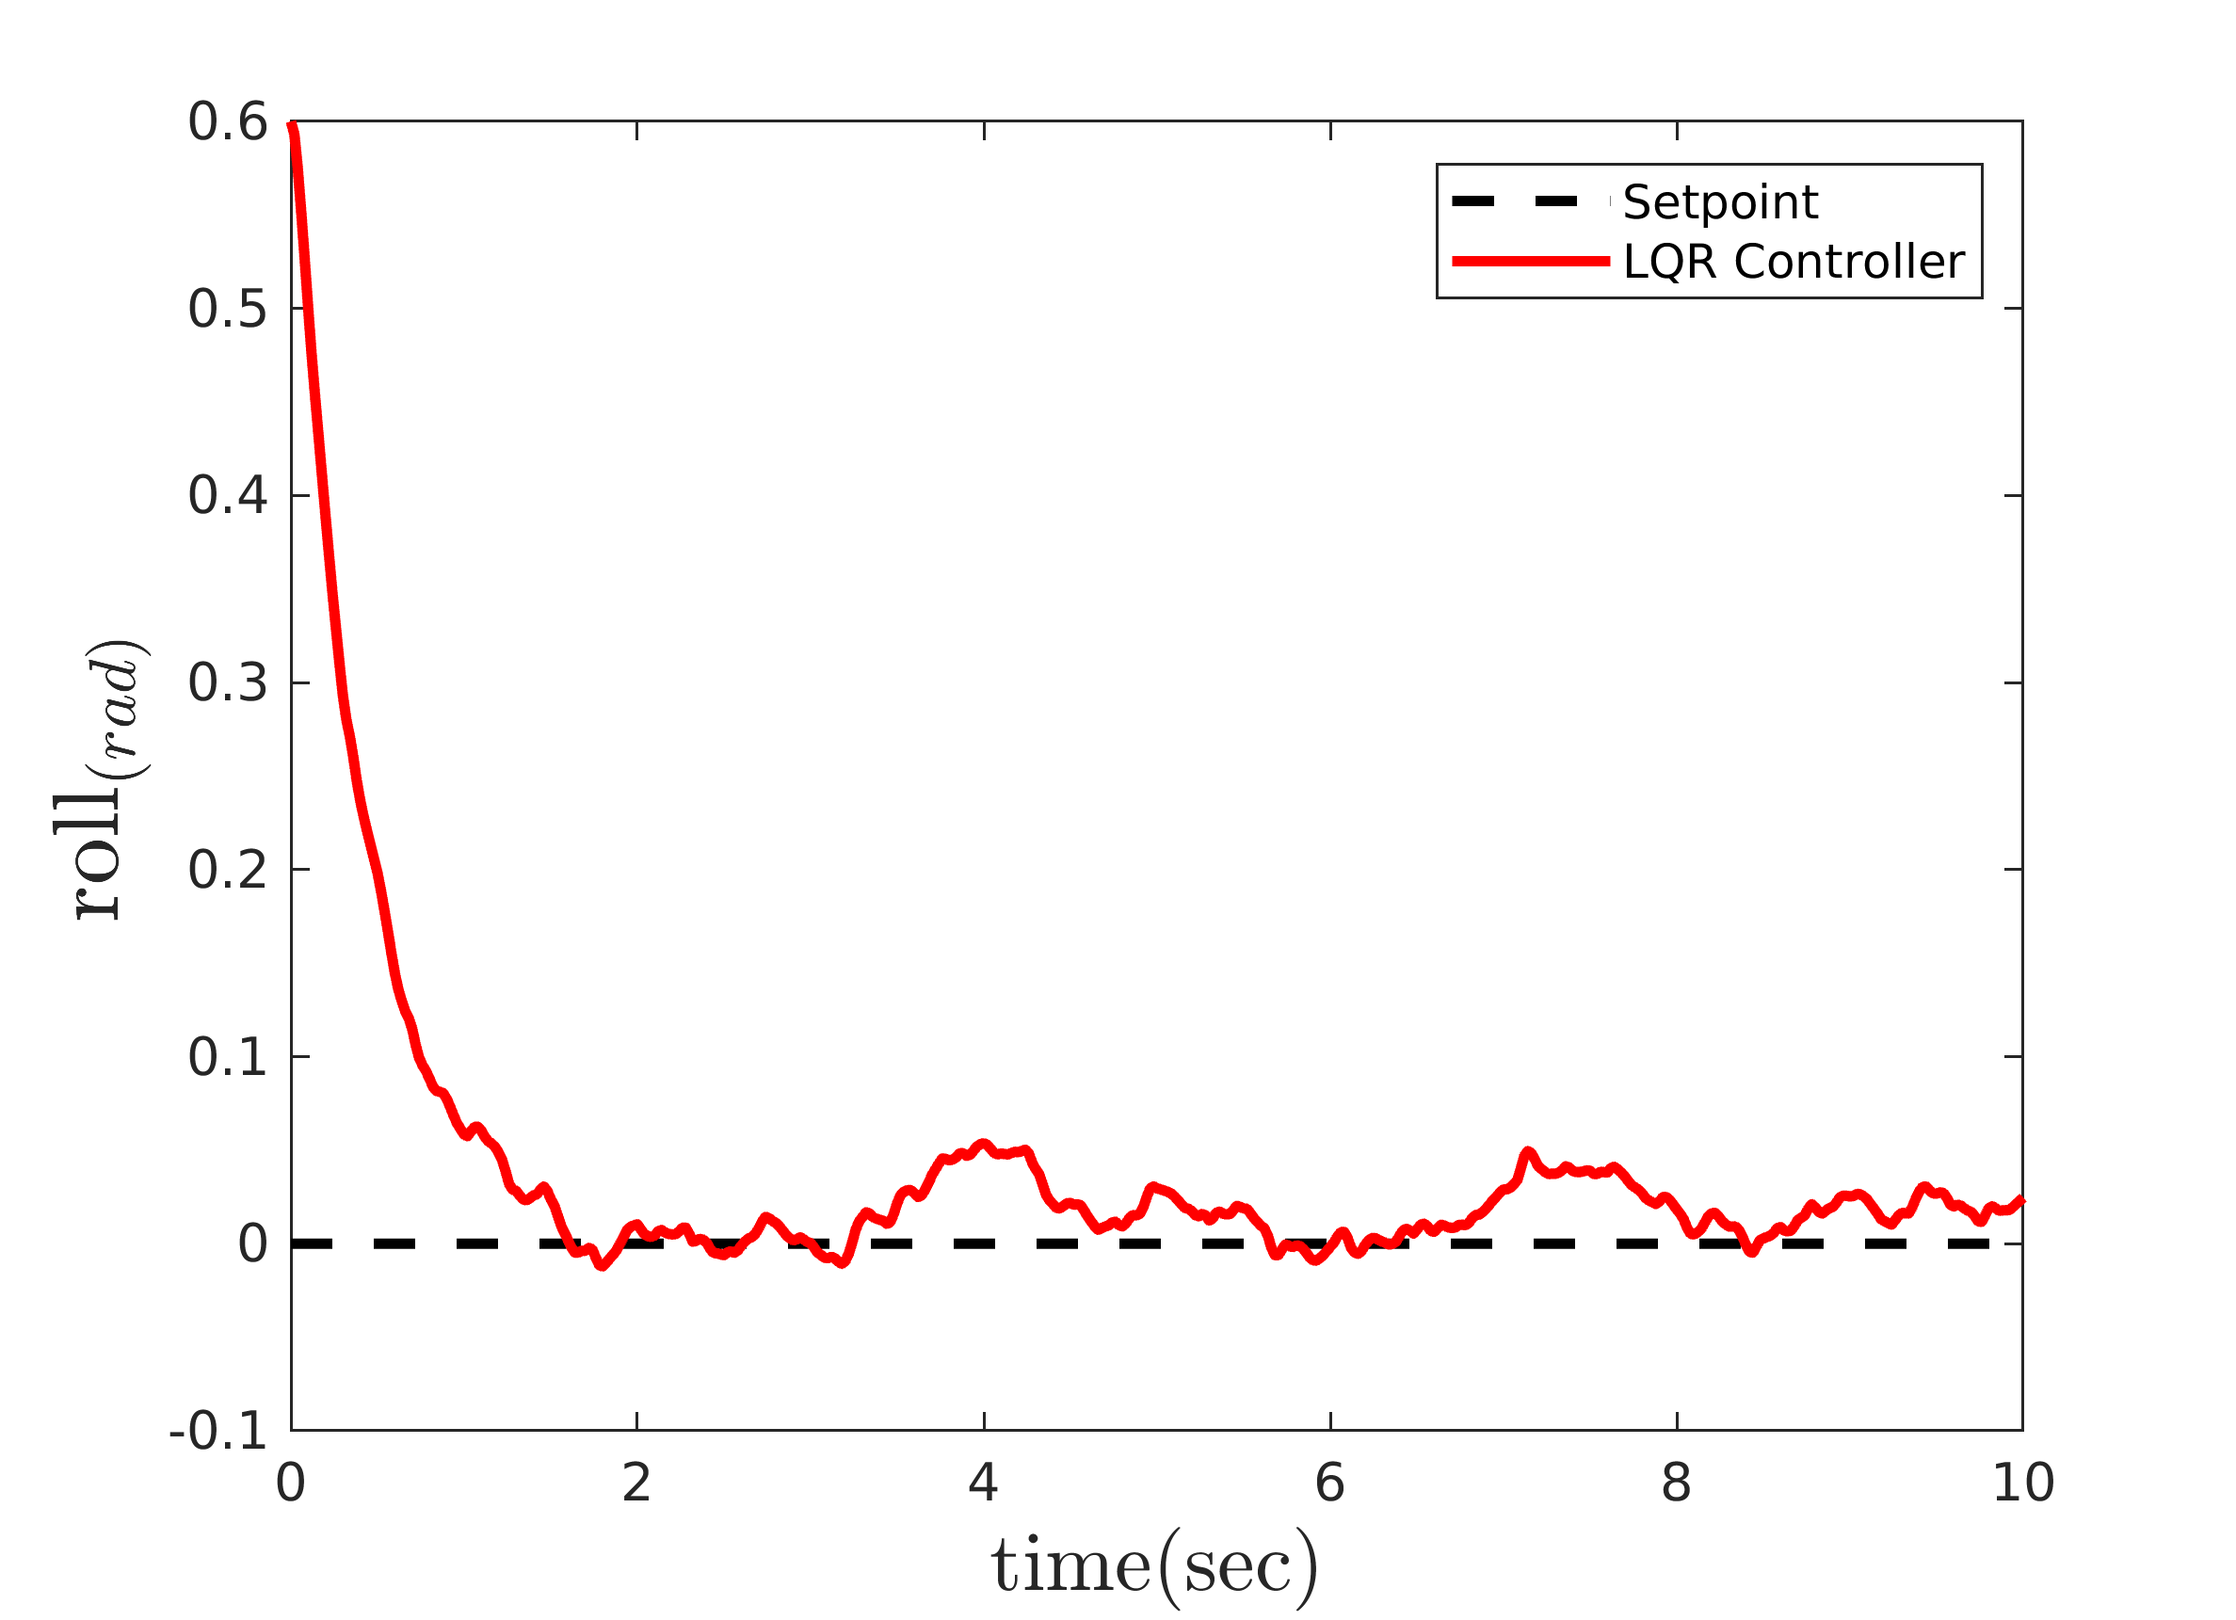
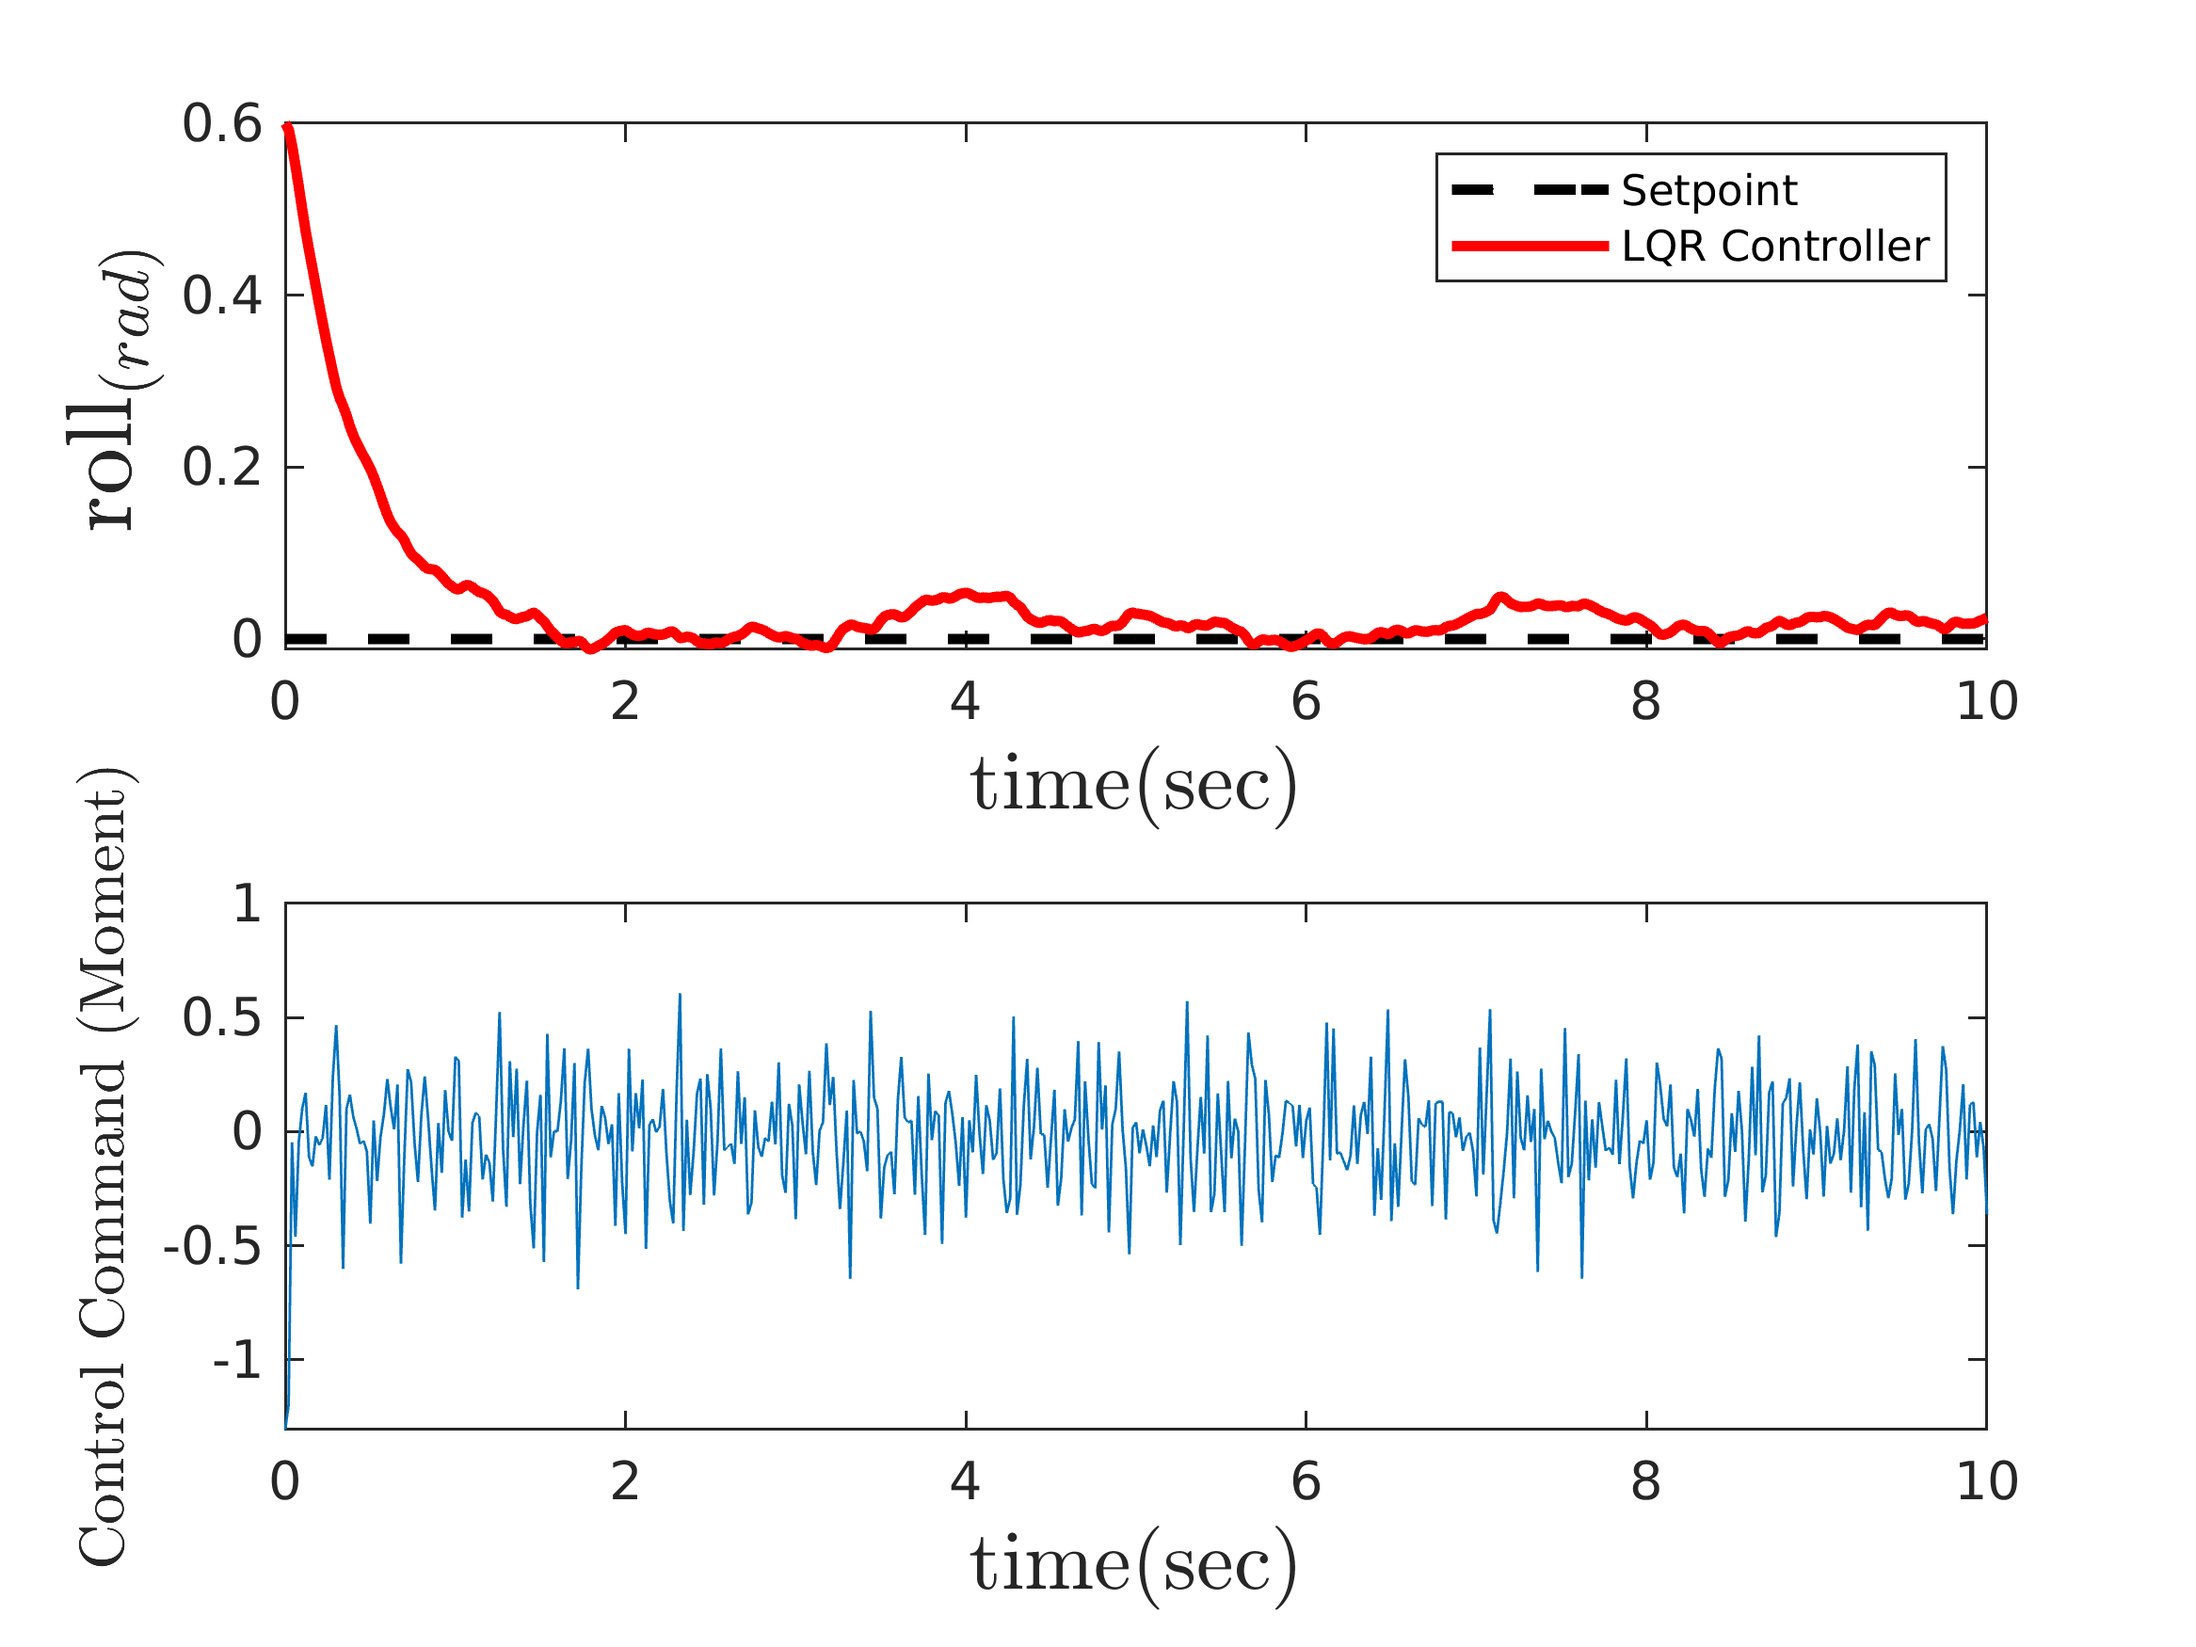
add command to fig

diff --git a/Code/Simulink/Quadcopter/MIL/Nonlinear/SISO/LQR/Roll/roll_plot.m b/Code/Simulink/Quadcopter/MIL/Nonlinear/SISO/LQR/Roll/roll_plot.m
@@ -2,7 +2,7 @@ load('11-Jun-2022-12-04-56-noise_ite_Roll_LQR_no1000.mat');
 weighting_matrix = XOpt;
 out = sim('Quad_Nonlinear_Roll_LQR_Model');
 
-% subplot(2,1,1);
+subplot(2,1,1);
 plot(out.tout, zeros(1, length(out.tout)), '--k', 'linewidth', 2);
 hold on;
 plot(out.tout, out.roll_state(:, 1), 'r', 'linewidth', 2);
@@ -10,13 +10,10 @@ hold off;
 xlabel('time($\sec)$', 'interpreter', 'latex', 'FontSize', 16);
 ylabel('roll$_{(rad)}$', 'interpreter', 'latex', 'FontSize', 18);
 legend('Setpoint', 'LQR Controller', 'Location','northeast');
-% subplot(2,1,2);
-% plot(out.tout, zeros(1, length(out.tout)), '--k', 'linewidth', 2);
-% hold on
-% plot(out.tout, out.roll_state(:, 2), 'r', 'linewidth', 2);
-% hold off;
-% xlabel('time($\sec)$', 'interpreter', 'latex', 'FontSize', 16);
-% ylabel('roll rate$_{(rad/\sec)}$', 'interpreter', 'latex', 'FontSize', 18);
-% legend('Setpoint', 'LQR Controller', 'Location','northeast');
+subplot(2,1,2);
+plot(out.tout, out.u*J_xx);
+hold off;
+xlabel('time($\sec)$', 'interpreter', 'latex', 'FontSize', 16);
+ylabel('Control Command (Moment)', 'interpreter', 'latex', 'FontSize', 12);
 
 print('../../../../../../../../Figures/MIL/LQR/Roll/lqr_roll.png','-dpng','-r400');
